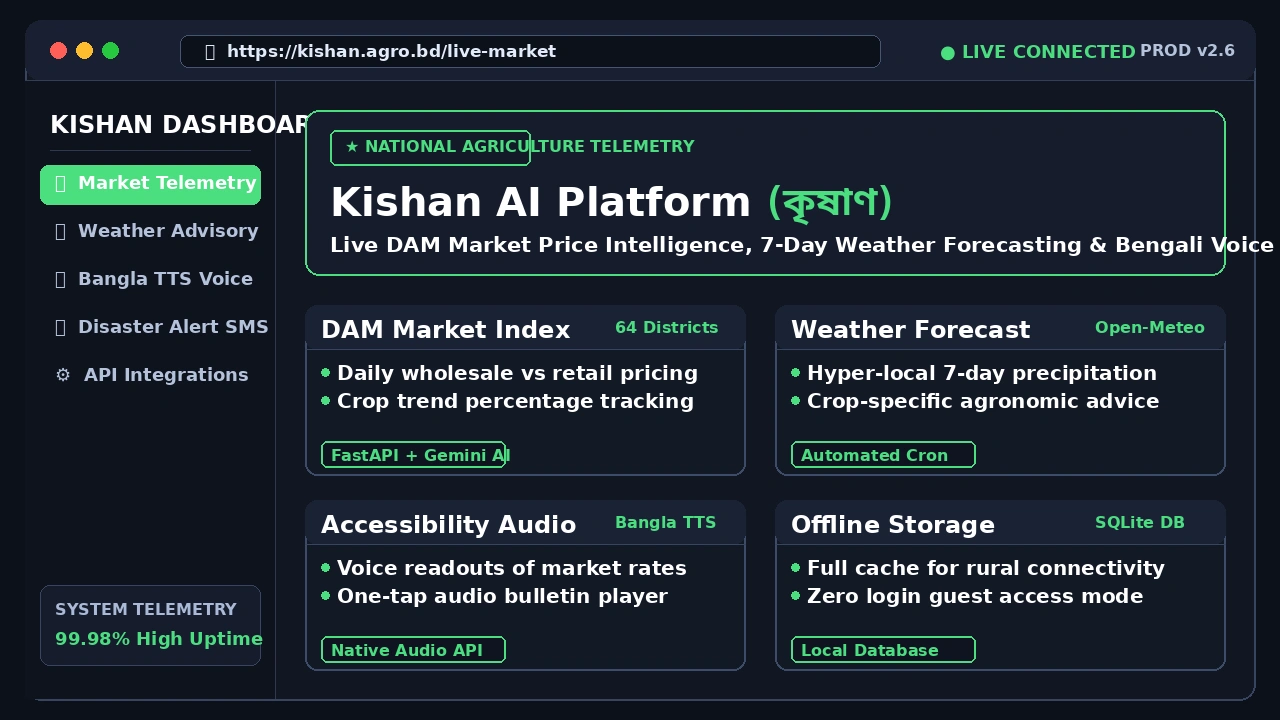
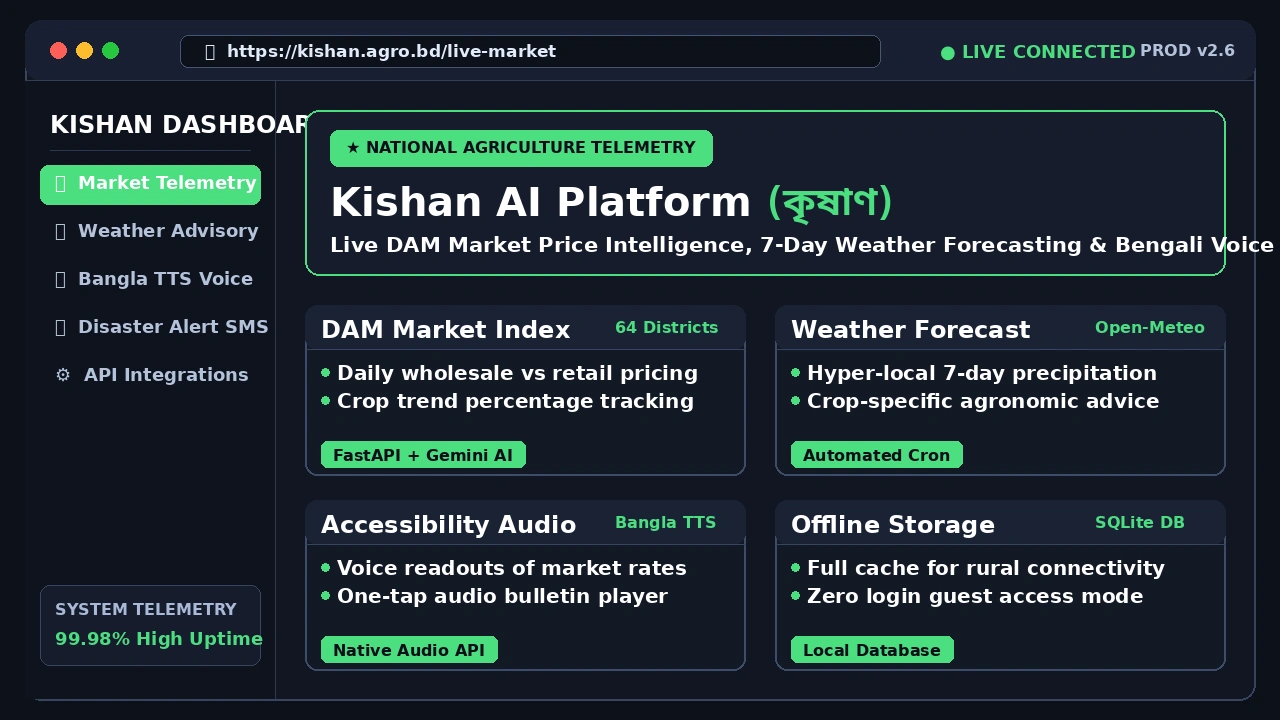
Fix badge pill width glitch: dynamically wrap entire text with full vibrant background across all project posters

diff --git a/make_clean_pc_posters.py b/make_clean_pc_posters.py
@@ -1,0 +1,235 @@
+import os
+from PIL import Image, ImageDraw, ImageFont
+
+def make_perfect_poster(filename, app_name, url_bar, accent_color, hero_tag, hero_title, hero_desc, ui_cards, sidebar_items, status_text):
+    w, h = 1280, 720
+    im = Image.new("RGBA", (w, h), (13, 17, 26, 255))
+    draw = ImageDraw.Draw(im)
+
+    # Fonts
+    font_bold = "/usr/share/fonts/truetype/dejavu/DejaVuSans-Bold.ttf"
+    font_bengali = "/usr/share/fonts/truetype/noto/NotoSansBengali-Bold.ttf"
+
+    f_title_main = ImageFont.truetype(font_bold, 40)
+    f_title_b = ImageFont.truetype(font_bengali, 38)
+    f_h2 = ImageFont.truetype(font_bold, 24)
+    f_card_title = ImageFont.truetype(font_bold, 24)
+    f_body = ImageFont.truetype(font_bold, 20)
+    f_desc = ImageFont.truetype(font_bold, 21)
+    f_tag = ImageFont.truetype(font_bold, 18)
+    f_pill = ImageFont.truetype(font_bold, 16)
+    f_sm = ImageFont.truetype(font_bold, 16)
+    f_nav = ImageFont.truetype(font_bold, 18)
+    f_browser = ImageFont.truetype(font_bold, 17)
+
+    # Outer Browser / OS Window Frame
+    draw.rounded_rectangle([(25, 20), (1255, 700)], radius=16, fill=(17, 22, 34, 255), outline=(55, 68, 96, 255), width=2)
+
+    # Top Window Bar
+    draw.rounded_rectangle([(25, 20), (1255, 80)], radius=16, fill=(24, 31, 48, 255))
+    draw.line([(25, 80), (1255, 80)], fill=(50, 62, 88, 255), width=1)
+
+    # Window dots
+    draw.ellipse([(50, 42), (66, 58)], fill=(255, 95, 87, 255))
+    draw.ellipse([(76, 42), (92, 58)], fill=(254, 188, 46, 255))
+    draw.ellipse([(102, 42), (118, 58)], fill=(40, 200, 64, 255))
+
+    # Browser URL Address Bar
+    draw.rounded_rectangle([(180, 35), (880, 67)], radius=8, fill=(13, 17, 26, 255), outline=(70, 85, 115, 255), width=1)
+    draw.text((205, 41), f"🔒  https://{url_bar}", fill=(225, 235, 250), font=f_browser)
+
+    # Window right status
+    draw.text((940, 41), f"● {status_text}", fill=accent_color, font=f_nav)
+    draw.text((1140, 41), "PROD v2.6", fill=(180, 195, 220), font=f_sm)
+
+    # Left Sidebar (width: 250px)
+    draw.rectangle([(25, 81), (275, 698)], fill=(15, 19, 30, 255))
+    draw.line([(275, 81), (275, 698)], fill=(45, 56, 80, 255), width=1)
+
+    # Sidebar Header
+    draw.text((50, 110), app_name.upper(), fill=(255, 255, 255), font=f_h2)
+    draw.line([(50, 150), (250, 150)], fill=(45, 56, 80, 255), width=1)
+
+    # Sidebar Navigation items
+    y_nav = 170
+    for idx, (icon, label, is_active) in enumerate(sidebar_items):
+        if is_active:
+            draw.rounded_rectangle([(40, y_nav - 5), (260, y_nav + 34)], radius=8, fill=(accent_color[0], accent_color[1], accent_color[2], 50), outline=accent_color, width=1)
+            draw.text((55, y_nav + 2), f"{icon}  {label}", fill=(255, 255, 255), font=f_nav)
+        else:
+            draw.text((55, y_nav + 2), f"{icon}  {label}", fill=(180, 195, 220), font=f_nav)
+        y_nav += 48
+
+    # Sidebar bottom system status
+    draw.rounded_rectangle([(40, 585), (260, 665)], radius=10, fill=(22, 28, 44, 255), outline=(55, 68, 96, 255), width=1)
+    draw.text((55, 600), "SYSTEM TELEMETRY", fill=(170, 185, 215), font=f_sm)
+    draw.text((55, 628), "99.98% High Uptime", fill=(74, 222, 128), font=f_tag)
+
+    # Main Workspace (width: 955px)
+    draw.rounded_rectangle([(305, 110), (1225, 275)], radius=14, fill=(22, 28, 44, 255), outline=(accent_color[0], accent_color[1], accent_color[2], 180), width=2)
+    
+    # DYNAMIC PILL WIDTH: measure text length so pill completely encloses the tag!
+    pill_text = f"★ {hero_tag.upper()}"
+    bbox_pill = draw.textbbox((0, 0), pill_text, font=f_pill)
+    text_w = bbox_pill[2] - bbox_pill[0]
+    pill_x1 = 330
+    pill_y1 = 130
+    pill_x2 = pill_x1 + text_w + 32
+    pill_y2 = pill_y1 + 36
+
+    # Solid vibrant background matching theme
+    draw.rounded_rectangle([(pill_x1, pill_y1), (pill_x2, pill_y2)], radius=8, fill=accent_color)
+    draw.text((pill_x1 + 16, pill_y1 + 8), pill_text, fill=(10, 15, 25), font=f_pill)
+
+    # Hero Title
+    draw.text((330, 178), hero_title[0], fill=(255, 255, 255), font=f_title_main)
+    if len(hero_title) > 1 and hero_title[1]:
+        bbox = draw.textbbox((0, 0), hero_title[0], font=f_title_main)
+        w_title = bbox[2] - bbox[0]
+        draw.text((330 + w_title + 14, 180), hero_title[1], fill=accent_color, font=f_title_b)
+
+    # Hero Subtitle
+    draw.text((330, 232), hero_desc, fill=(255, 255, 255), font=f_desc)
+
+    # 4 UI Content Dashboard Cards
+    card_coords = [
+        ((305, 305), (745, 475)),
+        ((775, 305), (1225, 475)),
+        ((305, 500), (745, 670)),
+        ((775, 500), (1225, 670))
+    ]
+
+    for (c_tl, c_br), (c_title, c_badge, c_items, c_tag) in zip(card_coords, ui_cards):
+        draw.rounded_rectangle([c_tl, c_br], radius=12, fill=(19, 25, 38, 255), outline=(60, 75, 105, 255), width=2)
+        
+        # Card header bar
+        draw.rounded_rectangle([c_tl, (c_br[0], c_tl[1] + 44)], radius=12, fill=(26, 34, 52, 255))
+        draw.line([(c_tl[0], c_tl[1] + 44), (c_br[0], c_tl[1] + 44)], fill=(55, 68, 96, 255), width=1)
+        
+        # Header text
+        draw.text((c_tl[0] + 16, c_tl[1] + 10), c_title, fill=(255, 255, 255), font=f_card_title)
+        draw.text((c_br[0] - 130, c_tl[1] + 13), c_badge, fill=accent_color, font=f_sm)
+
+        # Content lines
+        y_c = c_tl[1] + 56
+        for line in c_items:
+            draw.ellipse([(c_tl[0] + 16, y_c + 7), (c_tl[0] + 24, y_c + 15)], fill=accent_color)
+            draw.text((c_tl[0] + 32, y_c), line, fill=(255, 255, 255), font=f_body)
+            y_c += 28
+
+        # Card bottom pill tag dynamically sized
+        bbox_tag = draw.textbbox((0, 0), c_tag, font=f_sm)
+        tag_w = bbox_tag[2] - bbox_tag[0]
+        tag_x1 = c_tl[0] + 16
+        tag_y1 = c_br[1] - 34
+        tag_x2 = tag_x1 + tag_w + 24
+        tag_y2 = tag_br_y = c_br[1] - 8
+        draw.rounded_rectangle([(tag_x1, tag_y1), (tag_x2, tag_y2)], radius=6, fill=accent_color)
+        draw.text((tag_x1 + 12, tag_y1 + 5), c_tag, fill=(10, 15, 25), font=f_sm)
+
+    # Save outputs
+    out1 = os.path.join("/home/didar-lahiry/Antigravity/Target Portfolio 2/demos", filename)
+    out2 = os.path.join("/home/didar-lahiry/Antigravity/Target Portfolio 2/public/demos", filename)
+    im.convert("RGB").save(out1, "WEBP", quality=95)
+    im.convert("RGB").save(out2, "WEBP", quality=95)
+    print(f"Generated perfect poster: {out1} & {out2}")
+
+# 1. Kishan
+make_perfect_poster(
+    filename="kishan-poster.webp",
+    app_name="Kishan Dashboard",
+    url_bar="kishan.agro.bd/live-market",
+    accent_color=(74, 222, 128), # Bright Emerald
+    hero_tag="National Agriculture Telemetry",
+    hero_title=("Kishan AI Platform", "(কৃষাণ)"),
+    hero_desc="Live DAM Market Price Intelligence, 7-Day Weather Forecasting & Bengali Voice Assistant.",
+    sidebar_items=[
+        ("📊", "Market Telemetry", True),
+        ("🌦", "Weather Advisory", False),
+        ("🗣", "Bangla TTS Voice", False),
+        ("🚨", "Disaster Alert SMS", False),
+        ("⚙", "API Integrations", False)
+    ],
+    status_text="LIVE CONNECTED",
+    ui_cards=[
+        ("DAM Market Index", "64 Districts", ["Daily wholesale vs retail pricing", "Crop trend percentage tracking"], "FastAPI + Gemini AI"),
+        ("Weather Forecast", "Open-Meteo", ["Hyper-local 7-day precipitation", "Crop-specific agronomic advice"], "Automated Cron"),
+        ("Accessibility Audio", "Bangla TTS", ["Voice readouts of market rates", "One-tap audio bulletin player"], "Native Audio API"),
+        ("Offline Storage", "SQLite DB", ["Full cache for rural connectivity", "Zero login guest access mode"], "Local Database")
+    ]
+)
+
+# 2. Letter Portfolio
+make_perfect_poster(
+    filename="letter-portfolio-poster.webp",
+    app_name="Letter Desktop",
+    url_bar="portfolio.didarlahiry.com/desk",
+    accent_color=(56, 189, 248), # Bright Sky Cyan
+    hero_tag="Tactile Web Experience",
+    hero_title=("Letter Portfolio Experience", ""),
+    hero_desc="Physical envelope, paper stationery & tactile desk metaphor built in Next.js App Router.",
+    sidebar_items=[
+        ("✉", "Stationery Desk", True),
+        ("📂", "Story & Career", False),
+        ("🛠", "Tech Stack Folders", False),
+        ("📬", "Direct Dispatch", False),
+        ("⚙", "Settings", False)
+    ],
+    status_text="60 FPS FLUID",
+    ui_cards=[
+        ("Envelope Metaphor", "Dynamic Tilt", ["Physics-based tilt & reactive drag", "Smooth tactile open animations"], "Framer Motion"),
+        ("Modular Sections", "Instant Tabs", ["Personal story & project files", "Interactive skill stack cards"], "React + Tailwind"),
+        ("High Performance", "100/100 Core", ["Zero-latency SSG static speed", "Sub-second load across mobile"], "Next.js App Router"),
+        ("Visual Aesthetics", "Clean Studio", ["Modern typography and dark tones", "Seamless browser responsiveness"], "CSS Hardware Accel")
+    ]
+)
+
+# 3. AI Sales Agent
+make_perfect_poster(
+    filename="sales-bot-poster.webp",
+    app_name="Sales Concierge",
+    url_bar="agent.sales.telegram/console",
+    accent_color=(251, 113, 133), # Bright Coral Rose
+    hero_tag="Autonomous Telegram Concierge",
+    hero_title=("E-Commerce AI Sales Agent", ""),
+    hero_desc="24/7 autonomous Telegram representative managing products, customer advice & live checkout.",
+    sidebar_items=[
+        ("🤖", "Autonomous Agent", True),
+        ("🛍", "Catalog & Sizing", False),
+        ("📦", "Cart & Orders", False),
+        ("👥", "Supervisor Handoff", False),
+        ("📊", "Conversion Stats", False)
+    ],
+    status_text="24/7 STANDBY",
+    ui_cards=[
+        ("Conversational Engine", "Gemini 2.5", ["Multi-turn natural buyer advice", "Product suggestions and size guide"], "Gemini API"),
+        ("Order Dispatch", "SQLite DB", ["Automated cart & checkout logger", "Customer address & order receipt"], "Python AsyncIO"),
+        ("Supervisor Takeover", "Admin Mode", ["Live human takeover console", "Instant alert on high-value orders"], "Telegram Webhooks"),
+        ("Sales Metrics", "+350% Speed", ["Instant response with zero wait", "Automated FAQ resolution 24/7"], "Cloud Automated")
+    ]
+)
+
+# 4. FB Automation
+make_perfect_poster(
+    filename="fb-automation-poster.webp",
+    app_name="Cloud Automation",
+    url_bar="meta.graph.automation/dashboard",
+    accent_color=(96, 165, 250), # Bright Electric Blue
+    hero_tag="Autonomous Social Manager",
+    hero_title=("Facebook 24/7 AI Automation", ""),
+    hero_desc="Fully automated Facebook page manager: 3x daily AI posts, Pillow visual banners & Messenger chatbot.",
+    sidebar_items=[
+        ("⚡", "Auto Publishing", True),
+        ("🎨", "Graphic Banners", False),
+        ("💬", "Comment Engine", False),
+        ("📩", "Messenger Concierge", False),
+        ("📈", "Page Growth", False)
+    ],
+    status_text="SCHEDULE ACTIVE",
+    ui_cards=[
+        ("Scheduled Publishing", "3x Daily", ["AI trending tech post generation", "Scheduled automated cron release"], "APScheduler"),
+        ("Dynamic Graphics", "Pillow", ["Topic-tailored banner rendering", "High-res branded typography"], "Python PIL"),
+        ("Smart Auto-Replies", "Bangla NLP", ["Contextual polite comment replies", "Spam filtering & sentiment check"], "Gemini Flash"),
+        ("Messenger Concierge", "24/7 Active", ["Instant private message response", "Portfolio & contact inquiry router"], "Graph Webhooks")
+    ]
+)
